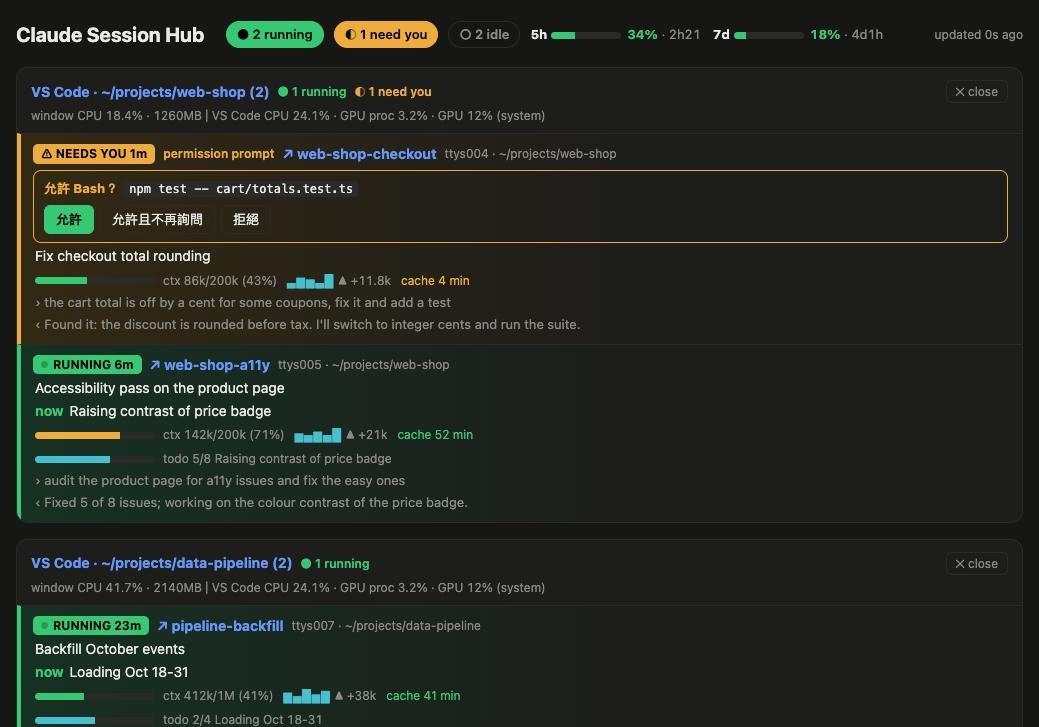
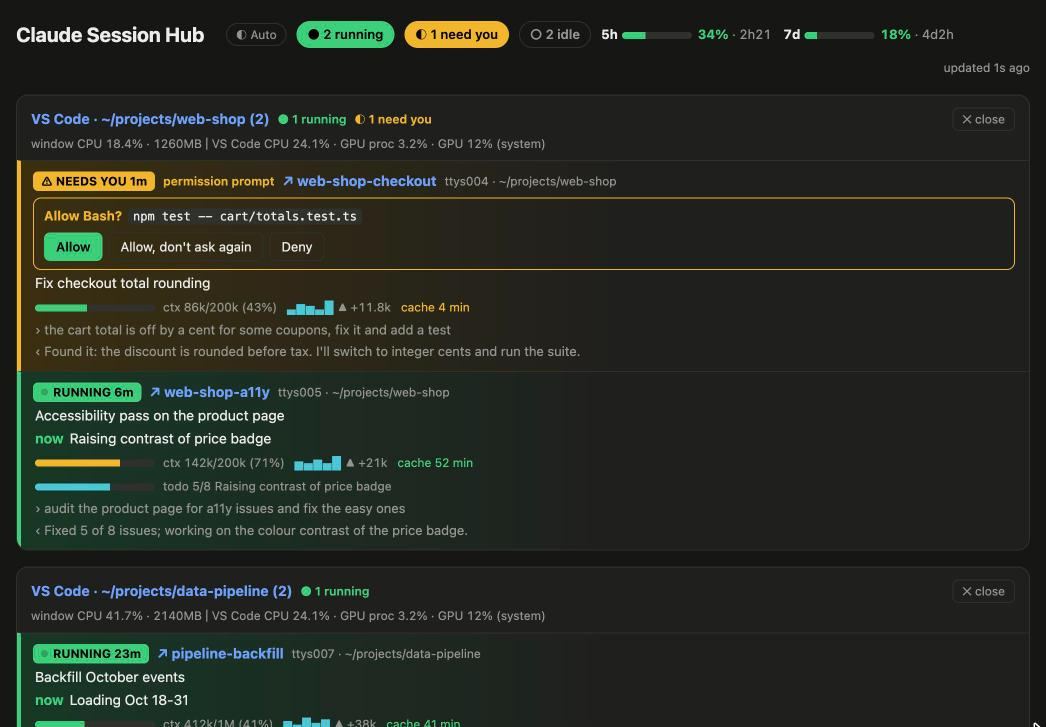
English UI for the web page and the Chrome panel
Every label, button, hint and toast on the web page (and so the Chrome
side panel) and the panel's offline message are now English; the theme
button reads Auto / Light / Dark. Screenshots retaken, and the READMEs
drop the translation note.

diff --git a/session-progress/web/index.html b/session-progress/web/index.html
@@ -1,5 +1,5 @@
 <!doctype html>
-<html lang="zh-Hant">
+<html lang="en">
 <head>
 <meta charset="utf-8">
 <meta name="viewport" content="width=device-width, initial-scale=1">
@@ -109,7 +109,7 @@
 <main>
   <header>
     <h1>Claude Session Hub</h1>
-    <button class="theme" id="theme" title="切換深色／淺色"></button>
+    <button class="theme" id="theme" title="Switch light / dark theme"></button>
     <span class="pill run" id="nRun"></span>
     <span class="pill wait" id="nWait"></span>
     <span class="pill" id="nIdle"></span>
@@ -121,7 +121,7 @@
 <div class="toast" id="toast"></div>
 <script>
 const POLL_MS = 3000, CONFIRM_MS = 5000
-const RELOAD_HINT = '在那個 VS Code 視窗執行「Developer: Reload Window」，載入新版 claude-terminal-focus 擴充（0.2 以上）'
+const RELOAD_HINT = 'Run "Developer: Reload Window" in that VS Code window to load claude-terminal-focus 0.2 or later'
 let rows = [], limits = { at: 0, list: [] }, lastOk = 0, armed = '', armTimer = 0
 
 const $ = id => document.getElementById(id)
@@ -172,27 +172,27 @@ function meter(ratio, color) {
 // menu line in the terminal, esc declines.
 function choices(p) {
   if (p?.kind === 'question') return p.options
-    ? [...p.options.map((o, i) => [String(i + 1), `${i + 1}. ${o}`, '']), ['esc', '取消', 'no']]
+    ? [...p.options.map((o, i) => [String(i + 1), `${i + 1}. ${o}`, '']), ['esc', 'Cancel', 'no']]
     : null
-  if (p?.kind === 'plan') return [['1', '核准，自動接受編輯', 'yes'], ['2', '核准，逐一確認', ''], ['esc', '繼續規劃', 'no']]
-  return [['1', '允許', 'yes'], ['2', '允許且不再詢問', ''], ['esc', '拒絕', 'no']]
+  if (p?.kind === 'plan') return [['1', 'Approve, auto-accept edits', 'yes'], ['2', 'Approve, review each edit', ''], ['esc', 'Keep planning', 'no']]
+  return [['1', 'Allow', 'yes'], ['2', "Allow, don't ask again", ''], ['esc', 'Deny', 'no']]
 }
 
 function askHtml(r) {
   const p = r.pending
-  const what = !p ? esc(r.waitingFor || '等待回應')
-    : p.kind === 'question' ? `<b>Claude 問</b>${esc(p.detail)}`
-    : p.kind === 'plan' ? `<b>核准計畫？</b>${esc(p.detail)}`
-    : `<b>允許 ${esc(p.tool)}？</b>${p.detail ? `<code>${esc(p.detail)}</code>` : ''}`
+  const what = !p ? esc(r.waitingFor || 'Waiting for you')
+    : p.kind === 'question' ? `<b>Claude asks</b>${esc(p.detail)}`
+    : p.kind === 'plan' ? `<b>Approve the plan?</b>${esc(p.detail)}`
+    : `<b>Allow ${esc(p.tool)}?</b>${p.detail ? `<code>${esc(p.detail)}</code>` : ''}`
   const list = choices(p)
   // Typing the answer needs the window's extension at 0.3.1 or later (it reports a version).
   const can = r.app === 'vscode' && !!r.extVersion
   let h = `<div class="ask"><div class="q">${what}</div>`
   if (list) h += `<div class="opts">${list.map(([k, label, cls]) => `<button class="${cls}" data-answer="${r.pid}" data-key="${k}" data-since="${r.statusSince}" ${can ? '' : 'disabled'}>${esc(label)}</button>`).join('')}</div>`
-  else h += `<div class="note">這題有多個問題或可複選，請到 terminal 回答</div>`
-  if (r.app !== 'vscode') h += `<div class="note">只有 VS Code terminal 裡的 session 能從這裡回答</div>`
-  else if (!r.extVersion) h += `<div class="note">這個 VS Code 視窗的擴充是舊版，還不能從這裡回答：在那個視窗執行「Developer: Reload Window」</div>`
-  else if (!p) h += `<div class="note">看不到詢問內容（session 重新載入 plugin 後就有），選項是一般權限詢問的順序</div>`
+  else h += `<div class="note">Several questions or multiple choice: answer in the terminal</div>`
+  if (r.app !== 'vscode') h += `<div class="note">Only sessions in a VS Code terminal can be answered from here</div>`
+  else if (!r.extVersion) h += `<div class="note">This VS Code window runs an old extension and can't be answered from here yet: run "Developer: Reload Window" in it</div>`
+  else if (!p) h += `<div class="note">The question isn't known (it shows once the session runs /reload-plugins); the buttons follow the usual permission menu</div>`
   return h + `</div>`
 }
 
@@ -201,7 +201,7 @@ function rowHtml(r) {
     : r.status === 'waiting' ? `<span class="badge waiting">⚠ NEEDS YOU ${span(r.statusSince)}</span>`
     : `<span class="badge idle">○ ${esc(r.status)} ${span(r.statusSince)}</span>`
   const name = r.app === 'vscode'
-    ? `<button class="name" data-focus="${r.pid}" title="切到這個 VS Code terminal">↗ ${esc(r.name)}</button>`
+    ? `<button class="name" data-focus="${r.pid}" title="Go to this VS Code terminal">↗ ${esc(r.name)}</button>`
     : `<span class="name">${esc(r.name)}</span>`
   let html = `<div class="row ${esc(r.status)}"><div class="rhead">${badge}`
   if (r.waitingFor) html += `<span class="waitfor">${esc(r.waitingFor)}</span>`
@@ -214,7 +214,7 @@ function rowHtml(r) {
     const k = r.ctxTokens / r.ctxMax
     const c = k >= .8 ? 'var(--red)' : k >= .5 ? 'var(--wait)' : 'var(--run)'
     html += `<div class="line">${meter(k, c)}<span class="num">ctx ${tokens(r.ctxTokens)}/${tokens(r.ctxMax)} (${Math.round(k * 100)}%)</span>`
-    if (r.ctxGrowth?.length) html += `<span class="spark" title="每次 prompt 的 context 增量">${spark(r.ctxGrowth)}</span> <span class="num">${signed(r.ctxGrowth.at(-1))}</span>`
+    if (r.ctxGrowth?.length) html += `<span class="spark" title="Context growth per prompt">${spark(r.ctxGrowth)}</span> <span class="num">${signed(r.ctxGrowth.at(-1))}</span>`
     if (r.cacheExpiresAt) {
       const left = r.cacheExpiresAt - Date.now()
       html += left > 0 ? `<span class="cache" style="color:${left < 300000 ? 'var(--wait)' : 'var(--run)'}">cache ${until(left)}</span>` : `<span class="cache num">cache expired</span>`
@@ -253,7 +253,7 @@ function render() {
     if (run) h += `<span class="gcount run">● ${run} running</span>`
     if (wait) h += `<span class="gcount wait">◐ ${wait} need you</span>`
     const canClose = s?.winSource === 'extension'
-    if (g.key !== 'other') h += `<button class="close ${armed === g.key ? 'armed' : ''}" data-close="${esc(g.key)}" title="${canClose ? '關閉這個 VS Code 視窗' : RELOAD_HINT}">${!canClose ? '✕ close（需先 reload 視窗）' : armed === g.key ? '再按一次關閉視窗' : '✕ close'}</button>`
+    if (g.key !== 'other') h += `<button class="close ${armed === g.key ? 'armed' : ''}" data-close="${esc(g.key)}" title="${canClose ? 'Close this VS Code window' : RELOAD_HINT}">${!canClose ? '✕ close (reload window first)' : armed === g.key ? 'Press again to close' : '✕ close'}</button>`
     h += `</div>`
     if (s) h += `<div class="stats">${s.winSource === 'terminals' ? 'claude terminals' : 'window'} CPU ${s.winCpu}% · ${s.winMemMB}MB │ VS Code CPU ${s.appCpu}% · GPU proc ${s.gpuProcCpu}%${s.gpuUtil !== undefined ? ` · GPU ${s.gpuUtil}% (system)` : ''}</div>`
     return h + g.rows.map(rowHtml).join('') + `</section>`
@@ -265,16 +265,16 @@ async function post(action, pid, extra = {}) {
     const res = await fetch(`api/${action}`, { method: 'POST', headers: { 'Content-Type': 'application/json', 'X-Sessions': '1' }, body: JSON.stringify({ pid, ...extra }) })
     const out = await res.json()
     if (action === 'answer') {
-      if (out.ok) toast('已送出')
-      else if (out.reason === 'not-waiting') toast('這個 session 已經不在等了，畫面會更新')
-      else if (out.reason === 'old-extension') toast('VS Code 擴充太舊，沒送出：在那個視窗執行「Developer: Reload Window」，載入 claude-terminal-focus 0.3.1 以上')
-      else toast('VS Code 視窗沒有回應：claude-terminal-focus 擴充裝了嗎？視窗 reload 過嗎？')
+      if (out.ok) toast('Sent')
+      else if (out.reason === 'not-waiting') toast('That session is no longer waiting; refreshing')
+      else if (out.reason === 'old-extension') toast('Not sent, the VS Code extension is too old: run "Developer: Reload Window" in that window to load claude-terminal-focus 0.3.1 or later')
+      else toast('The VS Code window did not answer: is claude-terminal-focus installed, and has the window been reloaded?')
       return setTimeout(poll, 600)
     }
-    if (out.reason === 'old-extension') toast(`這個視窗的擴充是舊版，只會跳轉不會關閉：${RELOAD_HINT}`)
-    else if (!out.ok) toast('VS Code 視窗沒有回應：claude-terminal-focus 擴充裝了嗎？視窗 reload 過嗎？')
-    else if (action === 'close') { toast('已關閉視窗'); poll() }
-  } catch { toast('連不到本機伺服器') }
+    if (out.reason === 'old-extension') toast(`This window runs an old extension that only focuses, never closes: ${RELOAD_HINT}`)
+    else if (!out.ok) toast('The VS Code window did not answer: is claude-terminal-focus installed, and has the window been reloaded?')
+    else if (action === 'close') { toast('Window closed'); poll() }
+  } catch { toast('Cannot reach the local server') }
 }
 
 document.addEventListener('click', e => {
@@ -289,7 +289,7 @@ document.addEventListener('click', e => {
   if (!c) return
   const key = c.dataset.close
   const g0 = groupRows(rows).find(g => g.key === key)
-  if (g0?.rows.find(r => r.winCpu !== undefined)?.winSource !== 'extension') return toast(`還不能關閉：${RELOAD_HINT}`)
+  if (g0?.rows.find(r => r.winCpu !== undefined)?.winSource !== 'extension') return toast(`Can't close yet: ${RELOAD_HINT}`)
   if (armed !== key) {
     armed = key; clearTimeout(armTimer)
     armTimer = setTimeout(() => { armed = ''; render() }, CONFIRM_MS)
@@ -314,12 +314,12 @@ async function poll() {
 
 function tick() {
   const u = $('updated'), stale = Date.now() - lastOk > POLL_MS * 3
-  u.textContent = lastOk ? (stale ? `伺服器沒回應 · 最後更新 ${ago(lastOk)} 前` : `updated ${ago(lastOk)} ago`) : '載入中…'
+  u.textContent = lastOk ? (stale ? `server not responding · last update ${ago(lastOk)} ago` : `updated ${ago(lastOk)} ago`) : 'loading…'
   u.classList.toggle('stale', stale && lastOk > 0)
 }
 
 // Theme button cycles auto (follow macOS) → light → dark.
-const THEMES = { auto: '◐ 自動', light: '☀ 淺色', dark: '☾ 深色' }
+const THEMES = { auto: '◐ Auto', light: '☀ Light', dark: '☾ Dark' }
 function setTheme(t) {
   if (t === 'auto') delete document.documentElement.dataset.theme
   else document.documentElement.dataset.theme = t

diff --git a/session-progress/chrome-extension/panel.html b/session-progress/chrome-extension/panel.html
@@ -1,5 +1,5 @@
 <!doctype html>
-<html lang="zh-Hant">
+<html lang="en">
 <head>
 <meta charset="utf-8">
 <title>Claude Session Hub</title>
@@ -16,9 +16,9 @@
 <body>
 <iframe id="view" title="Claude Session Hub"></iframe>
 <div id="down">
-  <p><b>本機伺服器沒有在跑</b></p>
-  <p>在任一個 Claude Code session 輸入 <code>/sessions-web</code> 就會啟動。</p>
-  <p class="dim">每 3 秒自動重試…</p>
+  <p><b>The local server isn't running</b></p>
+  <p>Run <code>/sessions-web</code> in any Claude Code session to start it.</p>
+  <p class="dim">Retrying every 3 seconds…</p>
 </div>
 <script src="panel.js"></script>
 </body>

diff --git a/README.md b/README.md
@@ -6,13 +6,13 @@
 
 這個 repo 本身是一個 Claude Code plugin marketplace（`claude-session-hub`），裡面有一個 plugin：**session-progress**。
 
-![Claude Session Hub 網頁：依 VS Code 視窗分組的 session，最上方是等待權限確認的 session 和允許／拒絕按鈕](docs/hub.jpg)
+![Claude Session Hub 網頁：依 VS Code 視窗分組的 session，最上方是等待權限確認的 session 和Allow／Deny 按鈕](docs/hub.jpg)
 
 <img src="docs/side-panel.png" width="300" align="right" alt="Chrome 側邊欄：同樣的內容排成窄欄">
 
 **Chrome 側邊欄**（右圖）：瀏覽任何網頁時，右側都能看到所有 session；工具列圖示的徽章顯示有幾個在等你。
 
-截圖用的是示範資料。
+截圖用的是示範資料。介面文字一律是英文。
 
 <br clear="right">
 
@@ -25,7 +25,7 @@
 | **用量限制** | 帳號的 5 小時和 7 天限制百分比、何時重置 |
 | **資源** | 每個 VS Code 視窗的 CPU 和記憶體，VS Code 的 GPU process 和系統 GPU 使用率 |
 | **跳轉／關閉** | 點 session 名稱就跳到那個 VS Code 視窗和 terminal；按兩次「✕ close」關閉視窗 |
-| **回答詢問** | session 卡在權限詢問或問題時，直接在 web 上點「允許／拒絕」或選答案 |
+| **回答詢問** | session 卡在權限詢問或問題時，直接在 web 上點「Allow／Deny」或選答案 |
 | **區網／手機** | 選用；只有帶密鑰的網址才連得進來 |
 | **Chrome 側邊欄** | 瀏覽器右側常駐面板，工具列徽章顯示等待中和執行中的 session 數 |
 | **深色／淺色** | 預設跟著 macOS，標題旁的按鈕可以切換自動、淺色、深色，每個瀏覽器各自記住 |

diff --git a/README.en.md b/README.en.md
@@ -12,7 +12,7 @@ This repo is a Claude Code plugin marketplace (`claude-session-hub`) holding one
 
 **Chrome side panel** (right): every session stays in view beside whatever page you are on, and the toolbar badge shows how many are waiting for you.
 
-The screenshots use demo data. The UI text is in Traditional Chinese (允許 = Allow, 允許且不再詢問 = Allow and don't ask again, 拒絕 = Deny).
+The screenshots use demo data.
 
 <br clear="right">
 
